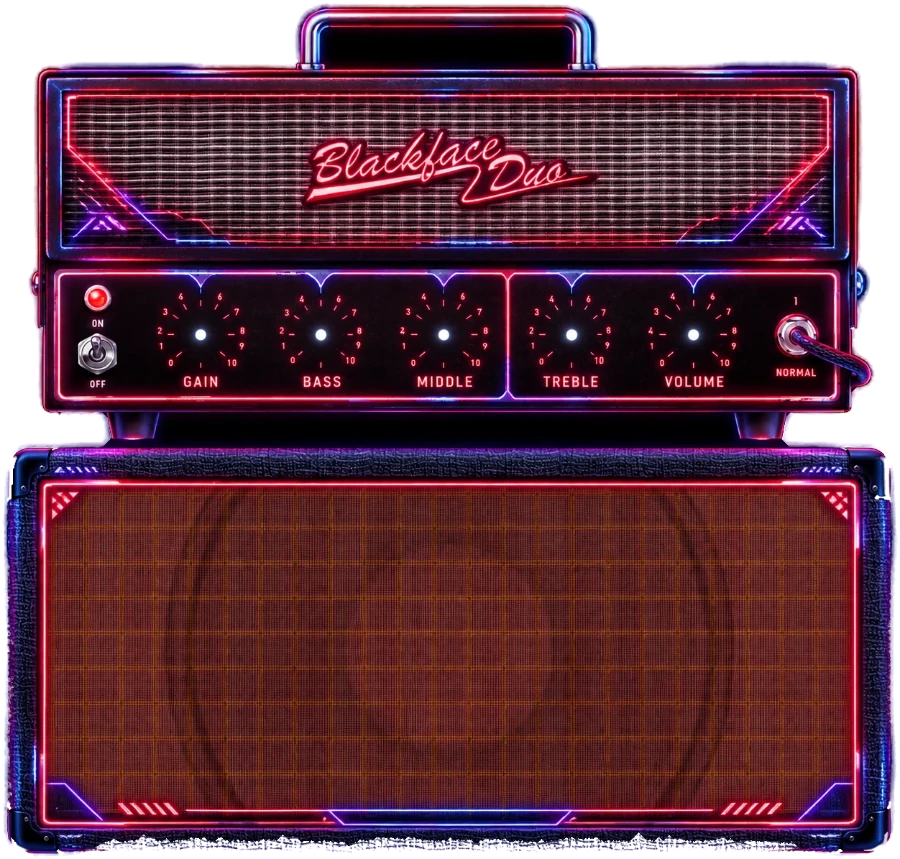
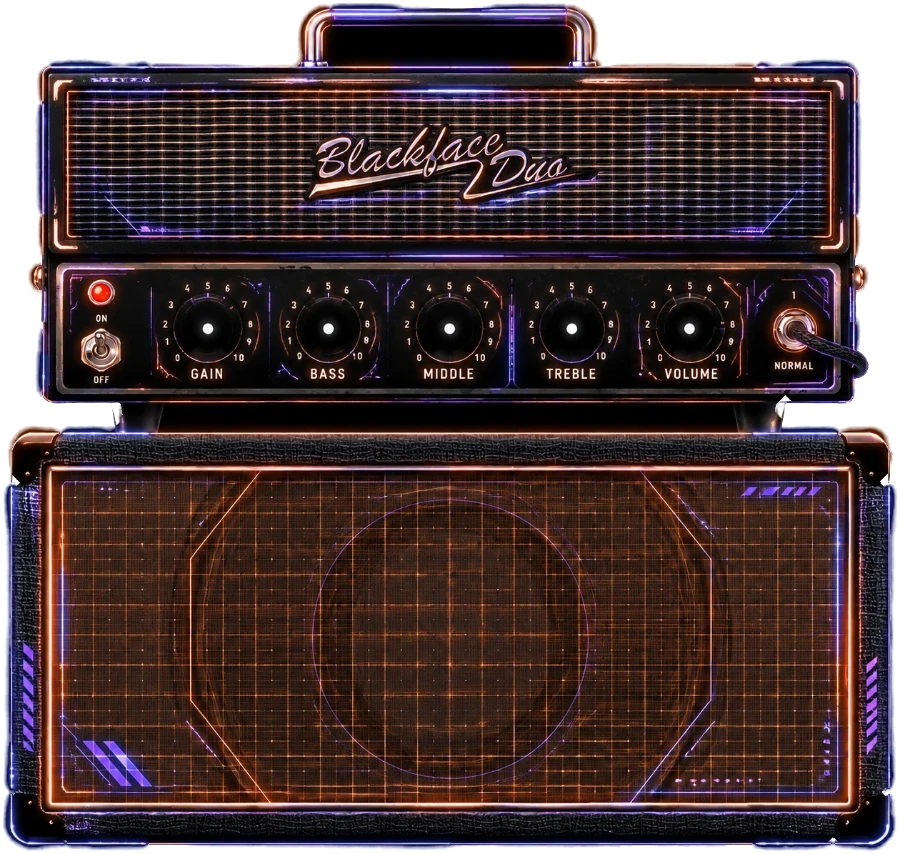
Bozza: il Blackface Duo rifatto dall'utente (terza versione)
La seconda non gli piaceva. Testata nera sulla cassa arancione (WebP a
900 px) con Gain, Bass, Middle, Treble e Volume nella manopola «neon» sopra
quelle nere disegnate, lasciando la scala 0-10. Spia: il LED rosso;
pulsante: la levetta ON/OFF.

diff --git a/src/spark-immagini.js b/src/spark-immagini.js
@@ -320,21 +320,21 @@
       led: { x: 102, y: 306.9, r: 11.2 },
       pulsante: { x: 100.6, y: 359.7, r: 23.4 },
     },
-    // Il Blackface Duo, seconda versione (16 ottobre, API di OpenAI): la testata
-    // sulla sua cassa, come l'AD Clean. La manopola sta dentro le tacche della
-    // scala 0-10; pulsante: la levetta ON/OFF.
+    // Il Blackface Duo, terza versione (16 ottobre, rifatto dall'utente): la
+    // testata sulla sua cassa. La manopola copre quella nera disegnata e lascia
+    // la scala 0-10; pulsante: la levetta ON/OFF.
     Twin: {
-      src: 'immagini/blocchi/Twin.webp', w: 900, h: 859,
-      manopola: manopola('rossa'),
+      src: 'immagini/blocchi/Twin.webp', w: 900, h: 854,
+      manopola: manopola('neon'),
       manopole: [
-        { indice: 0, x: 200.6, y: 334.6, r: 25.9 },   // Gain
-        { indice: 3, x: 320.6, y: 334.6, r: 25.9 },   // Bass
-        { indice: 2, x: 443.5, y: 334.6, r: 25.9 },   // Middle
-        { indice: 1, x: 571.3, y: 334.6, r: 25.9 },   // Treble
-        { indice: 4, x: 693.7, y: 334.6, r: 25.9 },   // Master (Volume)
+        { indice: 0, x: 207.1, y: 329.3, r: 31.4 },   // Gain
+        { indice: 3, x: 327.9, y: 329.3, r: 31.4 },   // Bass
+        { indice: 2, x: 449.3, y: 329.3, r: 31.4 },   // Middle
+        { indice: 1, x: 571.4, y: 329.3, r: 31.4 },   // Treble
+        { indice: 4, x: 689.3, y: 329.3, r: 31.4 },   // Master (Volume)
       ],
-      led: { x: 97.7, y: 298.7, r: 9.3 },
-      pulsante: { x: 95.6, y: 355.1, r: 17.3 },
+      led: { x: 101.4, y: 293, r: 8.6 },
+      pulsante: { x: 100, y: 350.7, r: 17.1 },
     },
     // Match DC: le tacche della scala stanno strette attorno ai puntini, e la
     // manopola resta dentro (più piccola che sull'AD Clean). Pulsante: la levetta ON.
